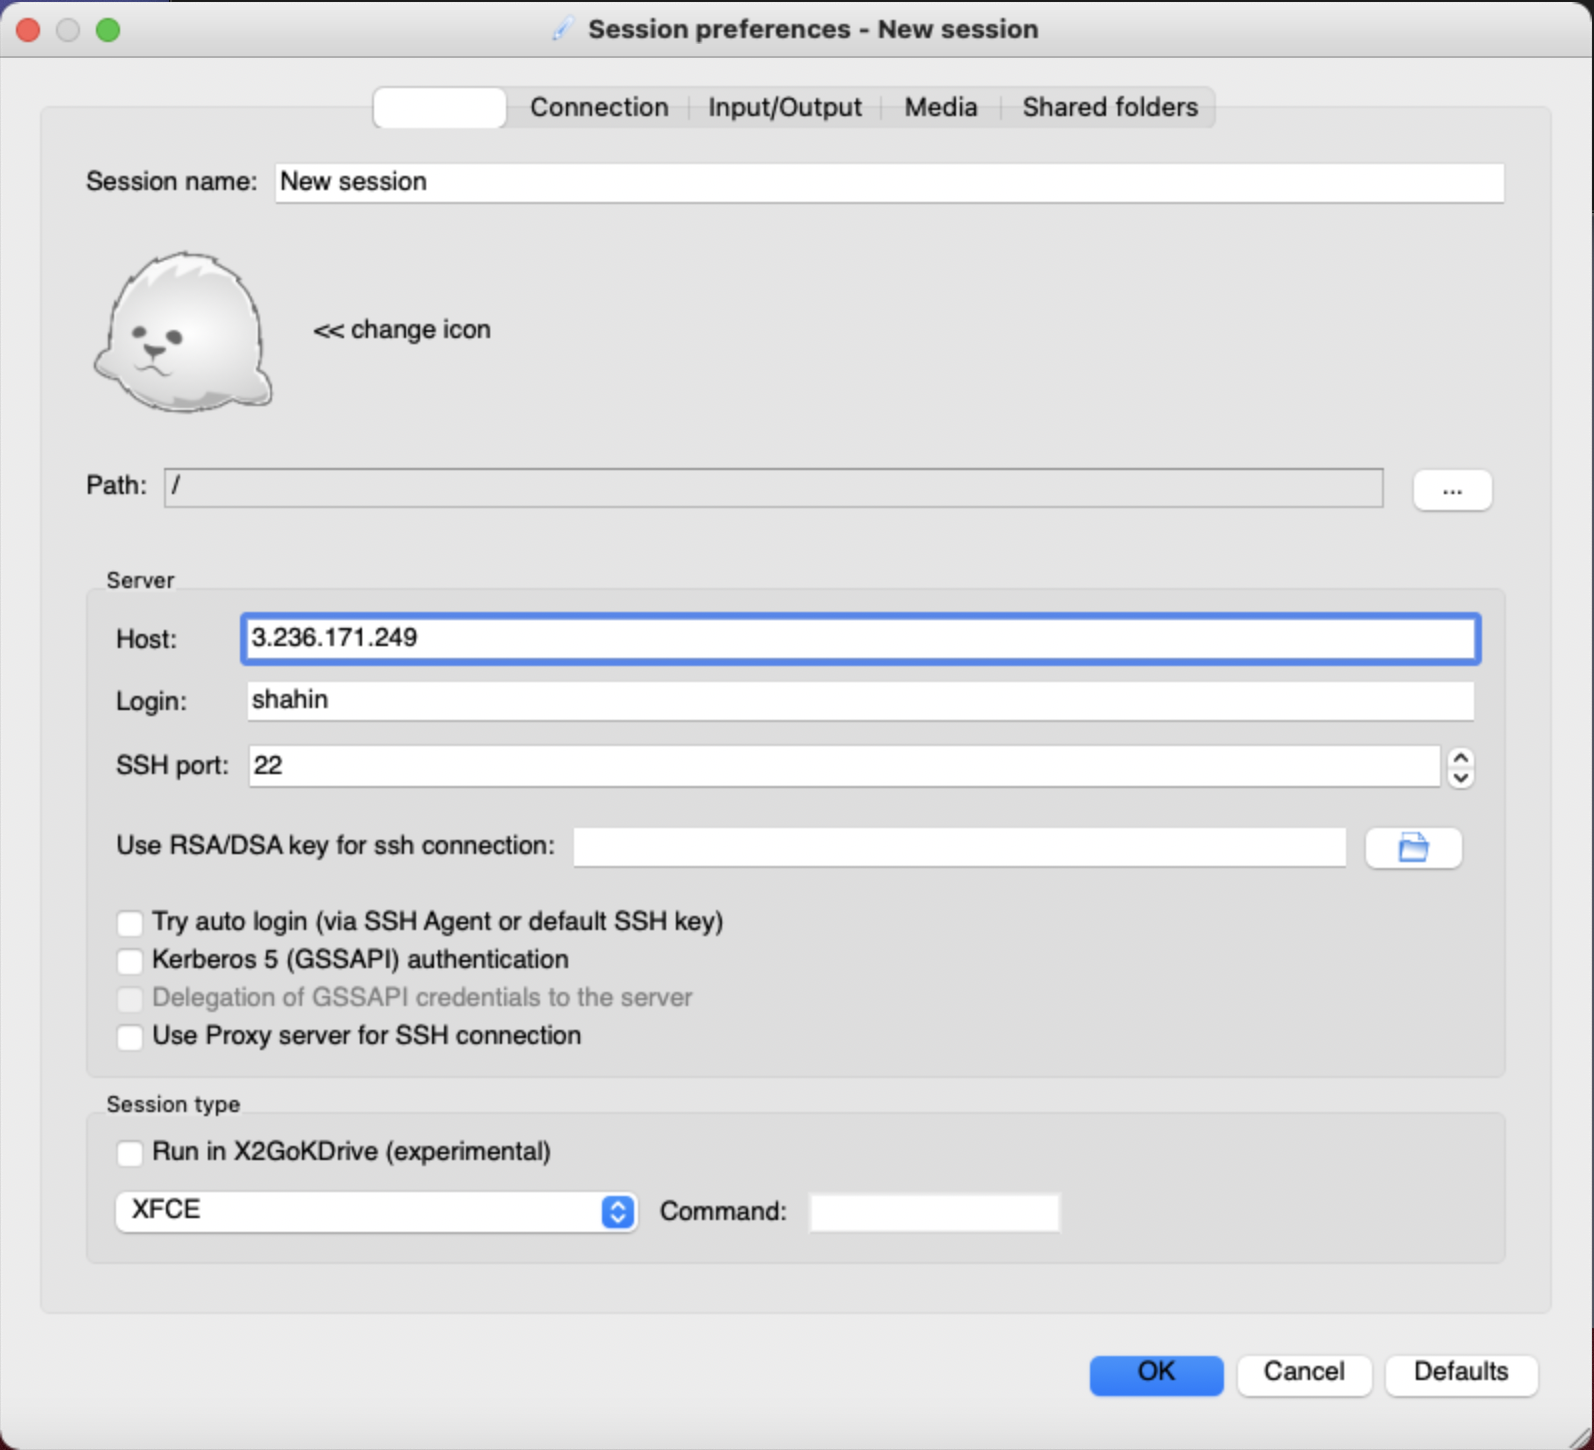
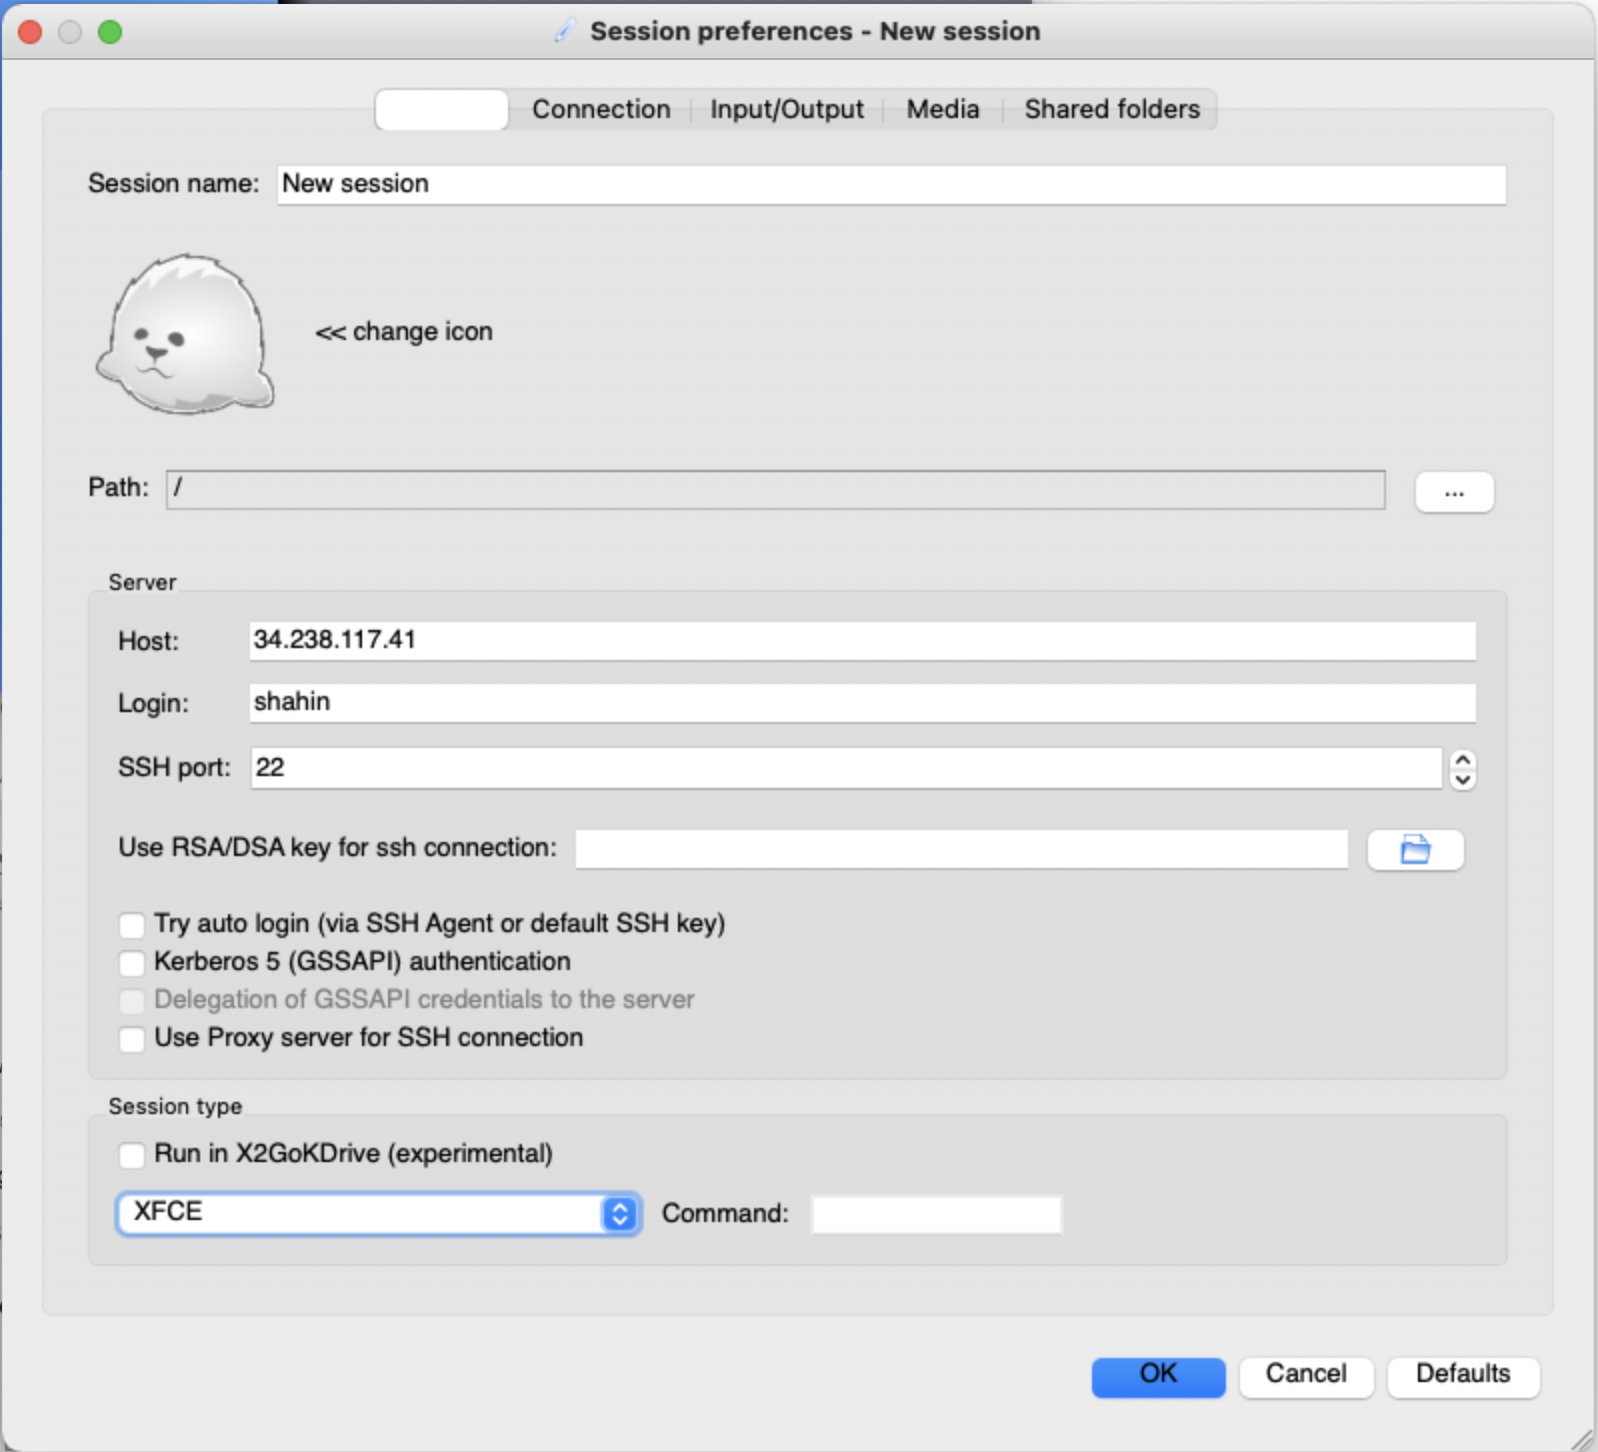
Day1 Nov

diff --git a/lectures/Day1_IntroShell/lessons/02_searching_files.md b/lectures/Day1_IntroShell/lessons/02_searching_files.md
@@ -1,7 +1,7 @@
 ---
 title: "The Shell: Searching and Redirection"
 author: "Shahin Shahsavari"
-date: "July 2021"
+date: "November 2021"
 ---
 
 Approximate time: 60 minutes
@@ -31,12 +31,12 @@ CACTTGTAAGGGCAGGCCCCCTTCACCCTCCCGCTCCTGGGGGANNNNNNNNNNANNNCGAGGCCCTGGGGTAGAGGGNN
 @?@DDDDDDHHH?GH:?FCBGGB@C?DBEGIIIIAEF;FCGGI#########################################################
 ```
 
-Suppose we want to see how many reads in our file `treated_1.subset.fastq` are "bad", with 10 consecutive Ns (`NNNNNNNNNN`).
+Suppose we want to see how many reads in our file `treated_1.fastq` are "bad", with 10 consecutive Ns (`NNNNNNNNNN`).
 
 ```
 $ cd ~/Day1/raw_fastq
 
-$ grep NNNNNNNNNN treated_1.subset.fastq
+$ grep NNNNNNNNNN treated_1.fastq
 ```
 
 We get back a lot of lines.  What if we want to see the whole fastq record for each of these reads? 
@@ -44,7 +44,7 @@ We get back a lot of lines.  What if we want to see the whole fastq record for e
 We can use the `-B` and `-A` arguments for grep to return the matched line plus one before (`-B 1`) and two lines after (`-A 2`). Since each record is four lines and the second line is the sequence, this should return the whole record.
 
 ```bash
-$ grep -B 1 -A 2 NNNNNNNNNN treated_1.subset.fastq
+$ grep -B 1 -A 2 NNNNNNNNNN treated_1.fastq
 ```
 
 ```
@@ -63,7 +63,7 @@ CACAAATCGGCTCAGGAGGCTTGTAGAAAAGCTCAGCTTGACANNNNNNNNNNNNNNNNNGNGNACGAAACNNNNGNNNN
 
 **Exercises**
 
-1. Search for the sequence CTCAATGA in `treated_1.subset.fastq`.
+1. Search for the sequence CTCAATGA in `treated_1.fastq`.
 In addition to finding the sequence, have your search also return
 the name of the sequence.
 
@@ -89,7 +89,7 @@ Let's try it out and put all the sequences that contain 'NNNNNNNNNN'
 from all the files into another file called `bad_reads.txt`.
 
 ```bash
-$ grep -B 1 -A 2 NNNNNNNNNN treated_1.subset.fastq > bad_reads.txt
+$ grep -B 1 -A 2 NNNNNNNNNN treated_1.fastq > bad_reads.txt
 ```
 
 The prompt takes some time to complete, and then it should look like nothing
@@ -107,7 +107,7 @@ Take a look at the file and see if it contains what you think it should. *NOTE: 
 If we use `>>`, it will append to rather than overwrite a file.  This can be useful for saving more than one search, for example.
     
 ```bash
-$ grep -B 1 -A 2 NNNNNNNNNN treated_2.subset.fastq >> bad_reads.txt
+$ grep -B 1 -A 2 NNNNNNNNNN treated_2.fastq >> bad_reads.txt
 
 $ ls -l
 ```
@@ -125,7 +125,7 @@ There's one more useful redirection command that we're going to show, and that's
 It's probably not a key on your keyboard you use very much. What `|` does is take the output that went scrolling by on the terminal and runs it through another command. When it was all whizzing by before, we wished we could just slow it down and look at it, like we can with `less`. Well it turns out that we can! We pipe the `grep` command to `less` or to `head` to just see the first few lines.
 
 ```bash
-$ grep -B 1 -A 2 NNNNNNNNNN treated_1.subset.fastq | less
+$ grep -B 1 -A 2 NNNNNNNNNN treated_1.fastq | less
 ```
 
 Now we can use the arrows to scroll up and down and use `q` to get out.
@@ -133,7 +133,7 @@ Now we can use the arrows to scroll up and down and use `q` to get out.
 We can also do count the number of lines using the `wc` command. `wc` stands for *word count*. It counts the number of lines, words or characters. So, we can use it to count the number of lines we're getting back from our `grep` command using the `-l` argument. And that will magically tell us how many bad sequences we have in the file.
 
 ```bash
-$ grep NNNNNNNNNN treated_1.subset.fastq | wc -l
+$ grep NNNNNNNNNN treated_1.fastq | wc -l
 ```
 
 This command when used without any arguments would tell us the number of lines, words and characters in the file; the `-l` flag specifies that we only want the number of lines. Try it out without the `-l` to see the full output.

diff --git a/lectures/Day1_IntroShell/lessons/01_the_filesystem.md b/lectures/Day1_IntroShell/lessons/01_the_filesystem.md
@@ -1,7 +1,7 @@
 ---
 title: "The Shell"
 author: "Shahin Shahsavari"
-date: "July 2021"
+date: "November 2021"
 ---
 
 ## Learning Objectives
@@ -51,7 +51,7 @@ To further explore Linux, we are going to log into our teaching server that runs
 1. open the **X2Go Client**
 2. click on session -> New Session
 3. Enter the following:
-	* Host: 3.236.171.249
+	* Host: 34.238.117.41
 	* Login: USERNAME
 	* Session type: XFCE
 
@@ -151,8 +151,8 @@ $ cd raw_fastq/
 
 $ ls -F
 
-treated_1.subset.fastq  treated_3.subset.fastq  untreated_2.fastq
-treated_2.subset.fastq  untreated_1.fastq       untreated_3.fastq
+treated_1.fastq  treated_3.fastq  untreated_2.fastq
+treated_2.fastq  untreated_1.fastq       untreated_3.fastq
 ```
 
 The six items in this directory have no trailing slashes, so they are all files, not folders or programs.
@@ -276,7 +276,7 @@ You should now be in `raw_fastq` and you got there without having to go through 
 
 **Exercise 2**
 
-List the `treated_1.subset.fastq` file from your home directory without changing directories
+List the `treated_1.fastq` file from your home directory without changing directories
 
 ---
 
@@ -487,26 +487,26 @@ In the fourth column you see the size of each of these files, and you can see th
 Move back to our `raw_fastq` directory and enter the following command:
 
 ```bash
-less treated_1.subset.fastq
+less treated_1.fastq
 ```
 
 We will explore FASTQ files in more detail later, but notice that FASTQ files have four lines of data associated with every sequence read. Not only is there a header line and the nucleotide sequence, similar to a FASTA file, but FASTQ files also contain quality information for each nucleotide in the sequence. 
 
 
 ```bash
-$ head treated_1.subset.fastq
+$ head treated_1.fastq
 ```
 
 ```bash
-$ tail treated_1.subset.fastq
+$ tail treated_1.fastq
 ```
 
 The `-n` option to either of these commands can be used to print the first or last `n` lines of a file. To print the first/last line of the file use:
 
 ```bash
-$ head -n 1 treated_1.subset.fastq
+$ head -n 1 treated_1.fastq
 
-$ tail -n 1 treated_1.subset.fastq
+$ tail -n 1 treated_1.fastq
 ```
 
 ## Creating, moving, copying, and removing
@@ -518,12 +518,12 @@ Our raw data in this case is fastq files. We don't want to change the original f
 Lets copy the file using the copy `cp` command. Navigate to the `raw\_fastq` directory and enter:
 
 ```bash
-$ cp treated_1.subset.fastq treated_1.subset-copy.fastq
+$ cp treated_1.fastq treated_1-copy.fastq
 
 $ ls -l
 ```
 
-Now `treated_1.subset-copy.fastq` has been created as a copy of `treated_1.subset.fastq`
+Now `treated_1-copy.fastq` has been created as a copy of `treated_1.fastq`
 
 Let's make a 'backup' directory where we can put this file.
 
@@ -545,7 +545,7 @@ $ mv *copy.fastq backup/
 ```bash
 $ ls -l backup/
 
--rw-rw-r-- 1 shahin shahin 75706556 Oct 11 13:56 treated_1.subset-copy.fastq
+-rw-rw-r-- 1 shahin shahin 75706556 Oct 11 13:56 treated_1-copy.fastq
 ```
 
 The `mv` command is also how you rename files. Since this file is so
@@ -554,11 +554,11 @@ important, let's rename it:
 ```bash
 $ cd backup
 
-$ mv treated_1.subset-copy.fastq treated_1.subset-backup.fastq
+$ mv treated_1-copy.fastq treated_1-backup.fastq
 
 $ ls
 
-treated_1.subset-backup.fastq
+treated_1-backup.fastq
 ```
 
 Finally, we decided this was silly and want to start over.

diff --git a/README.md b/README.md
@@ -28,7 +28,6 @@ RNA sequencing and the use of publicly available datasets.
 |:------------------------:|:----------:|
 | Day1 | [Introduction to Shell and Cloud Computing](lectures/Day1_IntroShell) |
 | Day2 | [DNA Sequencing and Variant Calling](lectures/Day2_DNAseq) |
-| Day3 | [ChIP Sequencing and Shell Scripting](lectures/Day3_ChIPseq)
 | Day3 | [RNA Sequencing, Transcriptomics and Shell Scripting](lectures/Day3_RNAseq) |
 | Day4 | [Accessing Public Data and Capstone Project](lectures/Day4_PublicData) |
 

diff --git a/lectures/Day1_IntroShell/lessons/04_loops_and_scripts.md b/lectures/Day1_IntroShell/lessons/04_loops_and_scripts.md
@@ -1,7 +1,7 @@
 ---
 title: "The Shell: Loops & Scripts"
 author: "Shahin Shahsavari"
-date: "Mar 2021"
+date: "November 2021"
 ---
 
 Approximate time: 60 minutes

diff --git a/lectures/Day1_IntroShell/lessons/06_introR-syntax-and-data-structures.md b/lectures/Day1_IntroShell/lessons/06_introR-syntax-and-data-structures.md
@@ -1,7 +1,7 @@
 ---
 title: R Syntax and Data Structures
 authors: Shahin Shahsavari
-date: "Mar 2021"
+date: "November 2021"
 ---
 Approximate time: 75 min
 

diff --git a/lectures/Day1_IntroShell/lessons/05_introR-R-and-RStudio.md b/lectures/Day1_IntroShell/lessons/05_introR-R-and-RStudio.md
@@ -1,7 +1,7 @@
 ---
 title: "Intro to R and Rstudio"
 author: "Shahin Shahsavari"
-date: "July 2021"
+date: "November 2021"
 ---
 
 ## Learning Objectives
